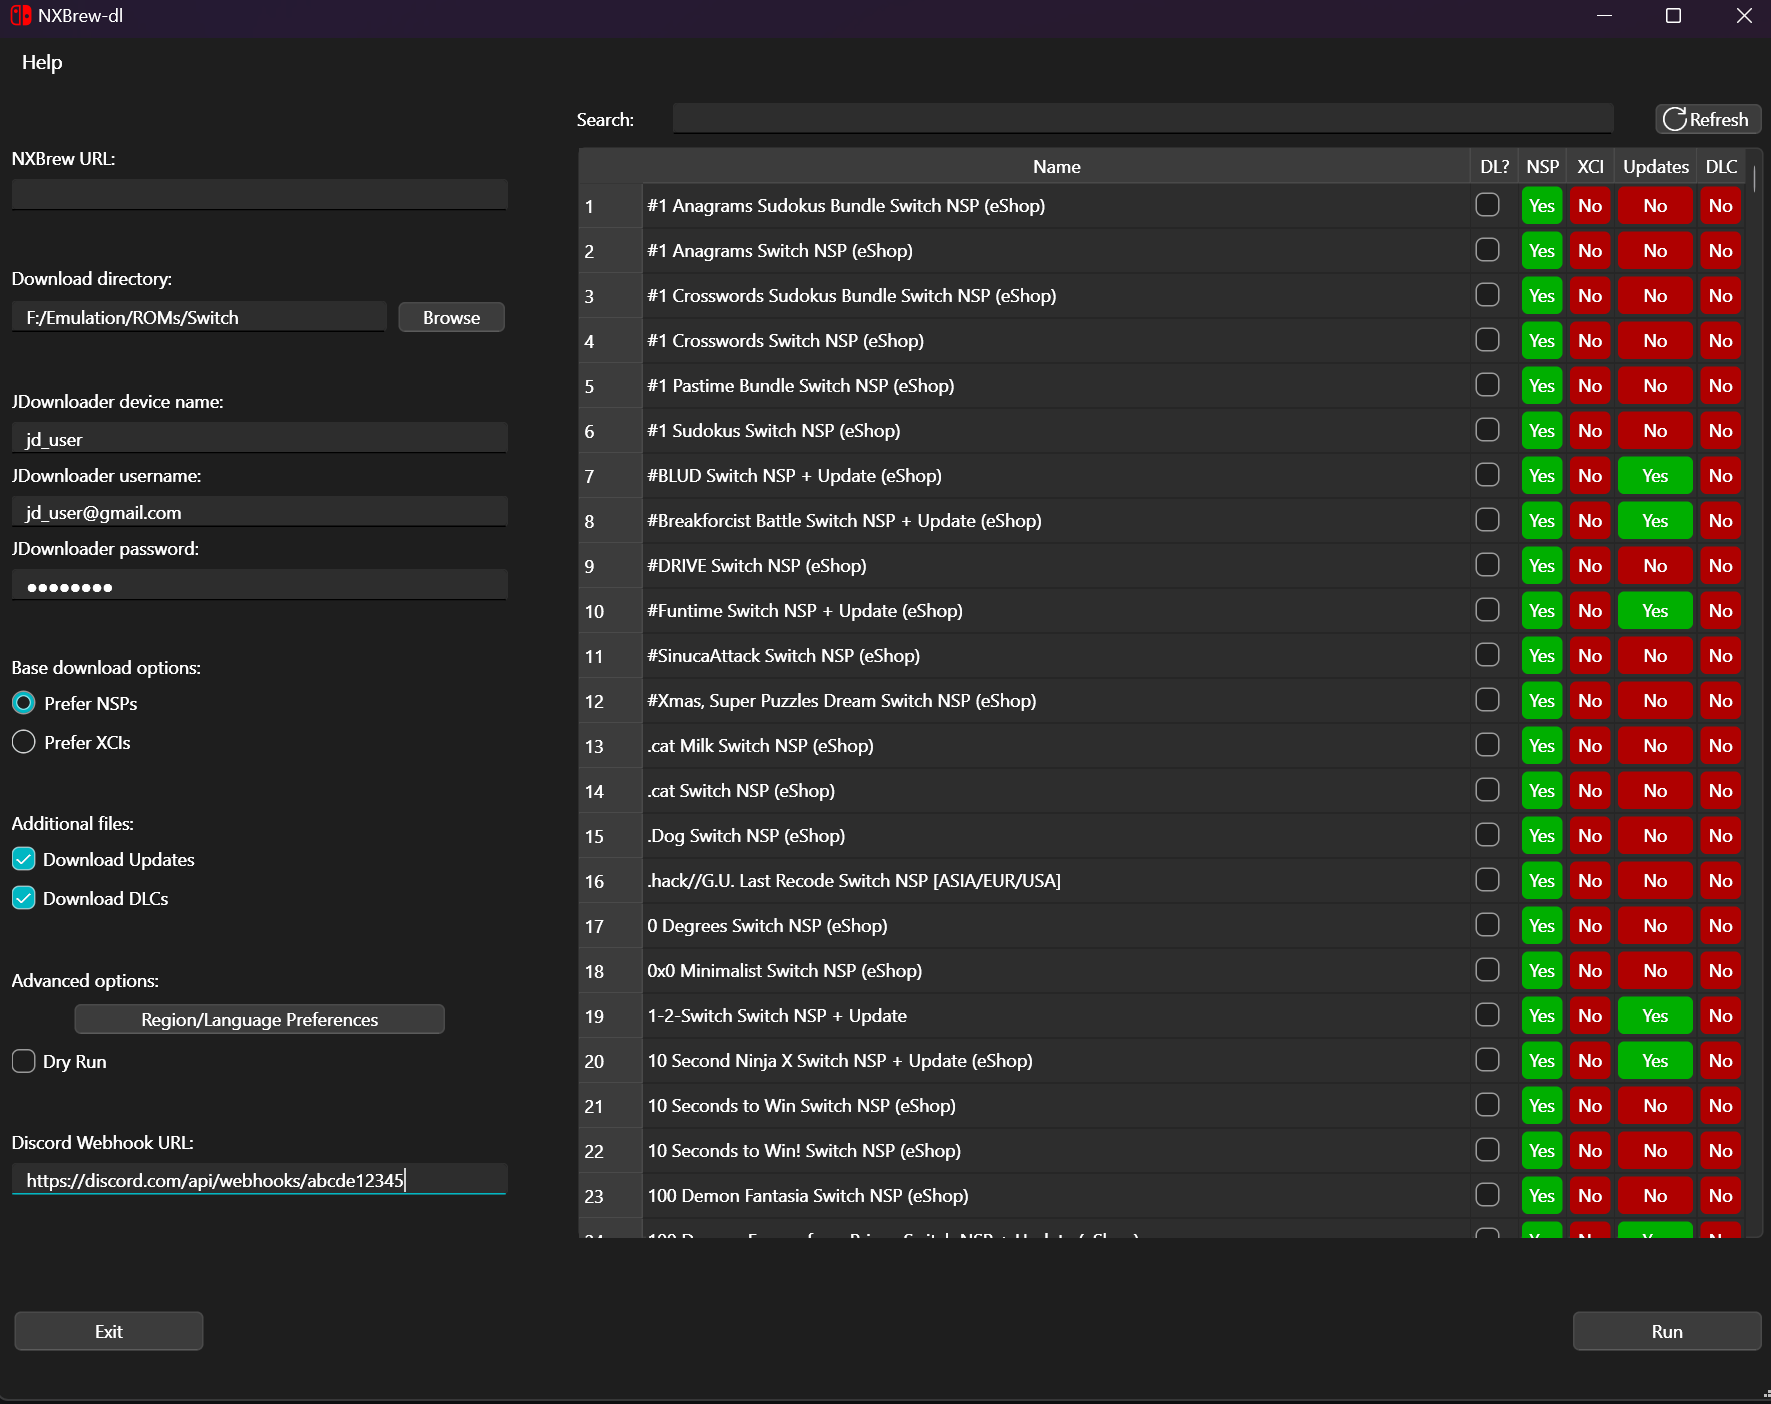
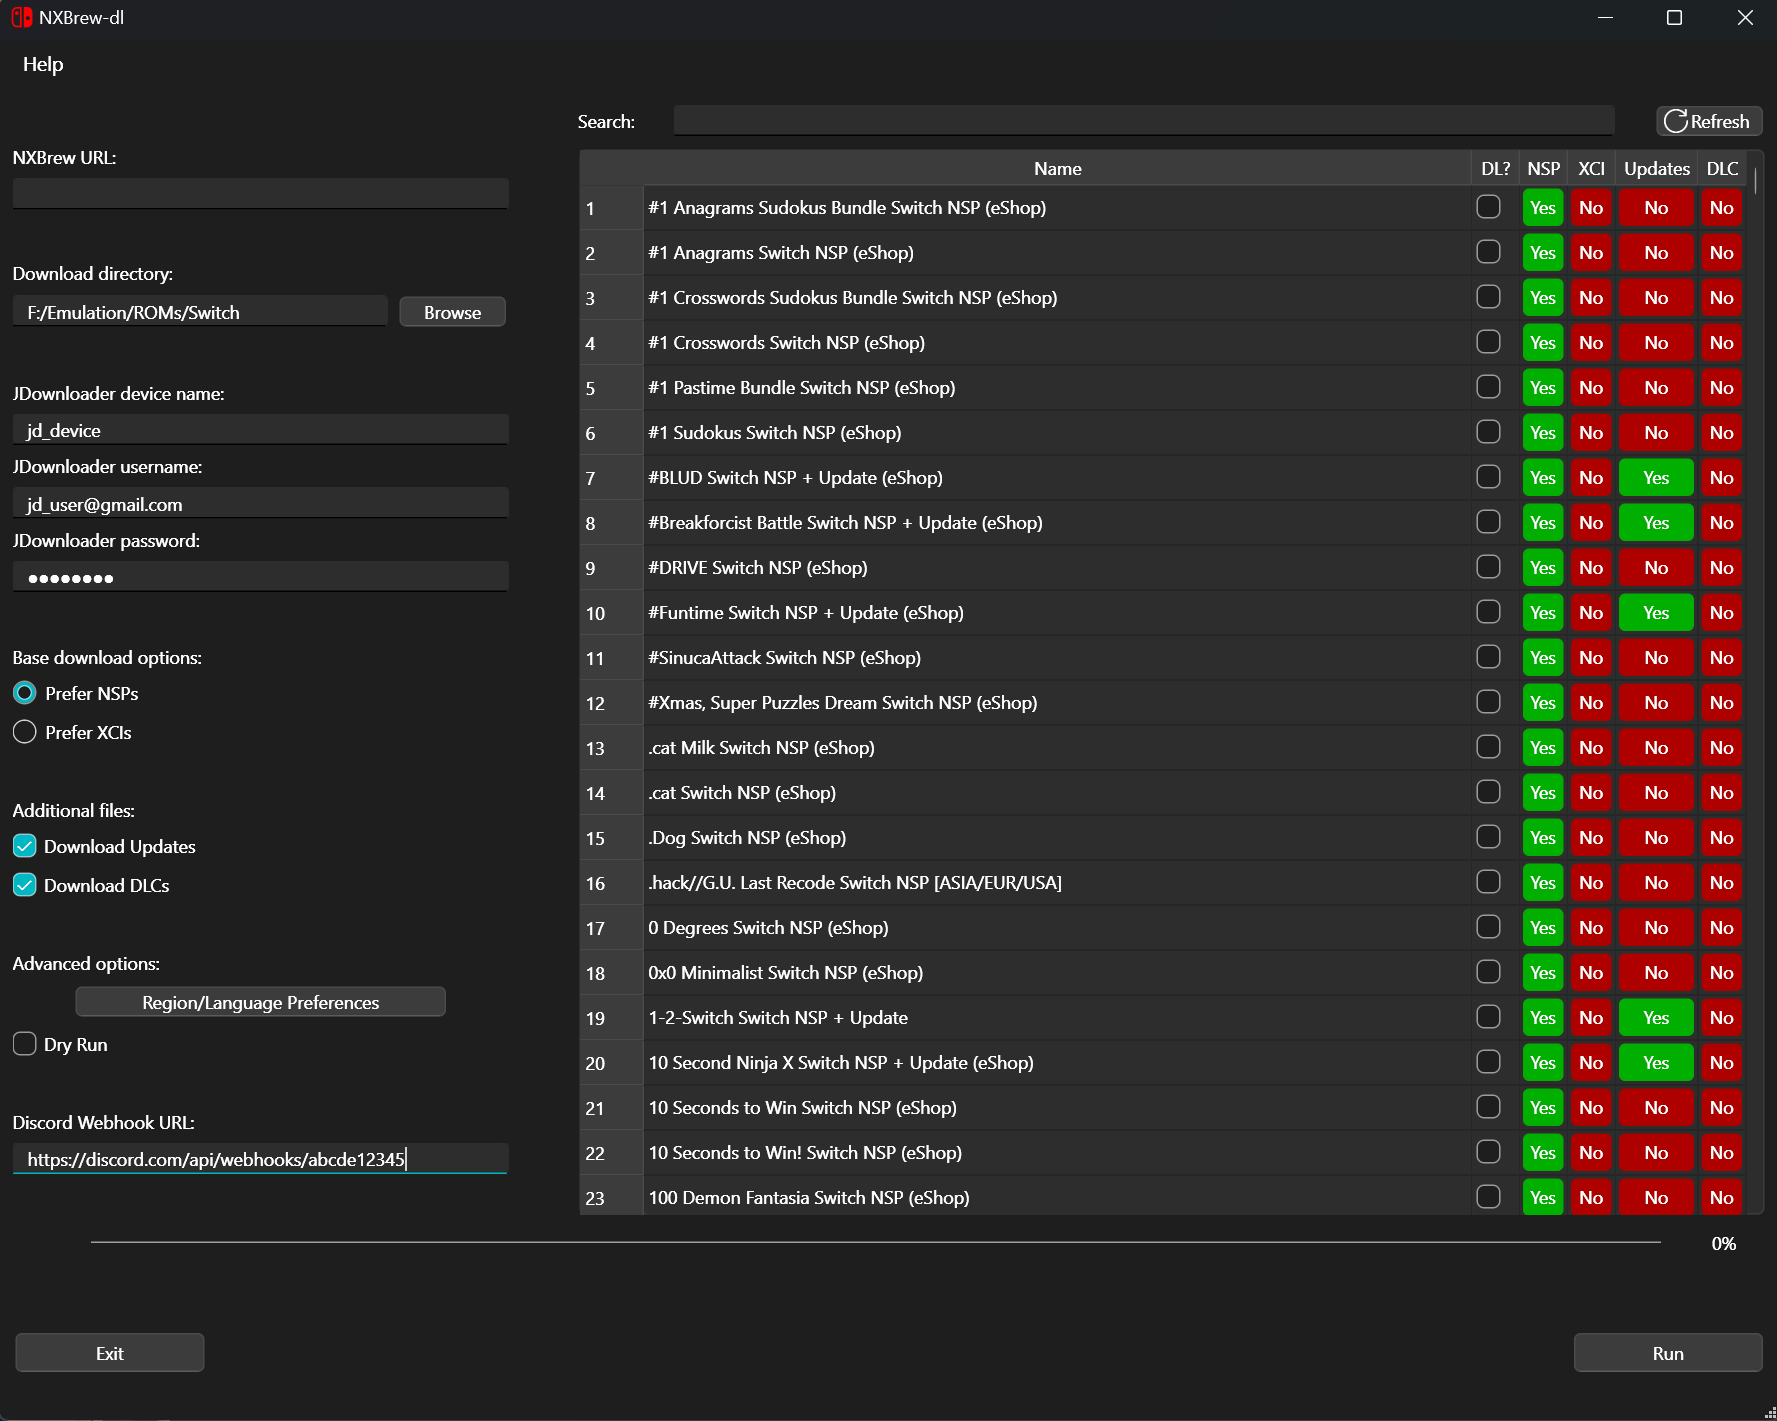
Add progress bar
- Add progress bar to GUI
- Update docs

diff --git a/nxbrew_dl/gui/layout_nxbrew_dl.py b/nxbrew_dl/gui/layout_nxbrew_dl.py
@@ -19,15 +19,15 @@ from PySide6.QtGui import (QAction, QBrush, QColor, QConicalGradient,
 from PySide6.QtWidgets import (QAbstractItemView, QAbstractScrollArea, QApplication, QButtonGroup,
     QCheckBox, QFrame, QHBoxLayout, QHeaderView,
     QLabel, QLineEdit, QMainWindow, QMenu,
-    QMenuBar, QPushButton, QRadioButton, QSizePolicy,
-    QSpacerItem, QStatusBar, QTableWidget, QTableWidgetItem,
-    QVBoxLayout, QWidget)
+    QMenuBar, QProgressBar, QPushButton, QRadioButton,
+    QSizePolicy, QSpacerItem, QStatusBar, QTableWidget,
+    QTableWidgetItem, QVBoxLayout, QWidget)
 
 class Ui_nxbrew_dl(object):
     def setupUi(self, nxbrew_dl):
         if not nxbrew_dl.objectName():
             nxbrew_dl.setObjectName(u"nxbrew_dl")
-        nxbrew_dl.resize(1187, 907)
+        nxbrew_dl.resize(1187, 920)
         self.actionDocumentation = QAction(nxbrew_dl)
         self.actionDocumentation.setObjectName(u"actionDocumentation")
         icon = QIcon(QIcon.fromTheme(QIcon.ThemeIcon.GoHome))
@@ -321,6 +321,37 @@ class Ui_nxbrew_dl(object):
 
         self.verticalLayout.addLayout(self.horizontalLayoutConfigGames)
 
+        self.horizontalLayoutProgressBar = QHBoxLayout()
+        self.horizontalLayoutProgressBar.setObjectName(u"horizontalLayoutProgressBar")
+        self.labelProgressBar = QLabel(self.centralwidget)
+        self.labelProgressBar.setObjectName(u"labelProgressBar")
+        sizePolicy4 = QSizePolicy(QSizePolicy.Policy.Maximum, QSizePolicy.Policy.Preferred)
+        sizePolicy4.setHorizontalStretch(0)
+        sizePolicy4.setVerticalStretch(0)
+        sizePolicy4.setHeightForWidth(self.labelProgressBar.sizePolicy().hasHeightForWidth())
+        self.labelProgressBar.setSizePolicy(sizePolicy4)
+
+        self.horizontalLayoutProgressBar.addWidget(self.labelProgressBar)
+
+        self.horizontalSpacer_5 = QSpacerItem(40, 20, QSizePolicy.Policy.Maximum, QSizePolicy.Policy.Minimum)
+
+        self.horizontalLayoutProgressBar.addItem(self.horizontalSpacer_5)
+
+        self.progressBar = QProgressBar(self.centralwidget)
+        self.progressBar.setObjectName(u"progressBar")
+        sizePolicy5 = QSizePolicy(QSizePolicy.Policy.Minimum, QSizePolicy.Policy.Fixed)
+        sizePolicy5.setHorizontalStretch(0)
+        sizePolicy5.setVerticalStretch(0)
+        sizePolicy5.setHeightForWidth(self.progressBar.sizePolicy().hasHeightForWidth())
+        self.progressBar.setSizePolicy(sizePolicy5)
+        self.progressBar.setMinimumSize(QSize(500, 0))
+        self.progressBar.setValue(0)
+
+        self.horizontalLayoutProgressBar.addWidget(self.progressBar)
+
+
+        self.verticalLayout.addLayout(self.horizontalLayoutProgressBar)
+
         self.verticalSpacerConfigButtons = QSpacerItem(20, 40, QSizePolicy.Policy.Minimum, QSizePolicy.Policy.Minimum)
 
         self.verticalLayout.addItem(self.verticalSpacerConfigButtons)
@@ -469,6 +500,8 @@ class Ui_nxbrew_dl(object):
 #if QT_CONFIG(tooltip)
         ___qtablewidgetitem5.setToolTip(QCoreApplication.translate("nxbrew_dl", u"Game has DLC", None));
 #endif // QT_CONFIG(tooltip)
+        self.labelProgressBar.setText("")
+        self.progressBar.setFormat(QCoreApplication.translate("nxbrew_dl", u"%p%", None))
 #if QT_CONFIG(statustip)
         self.pushButtonExit.setStatusTip(QCoreApplication.translate("nxbrew_dl", u"Exit NXBrew-dl", None))
 #endif // QT_CONFIG(statustip)

diff --git a/nxbrew_dl/nxbrew_dl/nxbrew.py b/nxbrew_dl/nxbrew_dl/nxbrew.py
@@ -71,6 +71,8 @@ class NXBrew:
     def __init__(
         self,
         to_download,
+        progress_bar=None,
+        progress_bar_label=None,
         general_config=None,
         regex_config=None,
         user_config=None,
@@ -85,6 +87,12 @@ class NXBrew:
 
         Args:
             to_download (dict): Dictionary of files to download
+            progress_bar (QProgressBar, optional): Progress bar widget.
+                Defaults to None, which will do nothing fancy with the
+                progress bar
+            progress_bar_label (QLabel, optional): If set, will put
+                the game title in a progress bar label. Defaults to
+                None
             general_config (dict): Dictionary for default configuration
             regex_config (dict): Dictionary for regex configuration
             user_config (dict): Dictionary for user configuration
@@ -157,20 +165,35 @@ class NXBrew:
         self.discord_url = discord_url
 
         self.to_download = to_download
+        self.progress_bar = progress_bar
+        self.progress_bar_label = progress_bar_label
 
         self.dry_run = self.user_config.get("dry_run", False)
 
     def run(self):
         """Run NXBrew-dl"""
 
+        n_downloads = len(self.to_download)
+
+        if self.progress_bar is not None:
+            # Reset progress bar to 0
+            self.progress_bar.setValue(0)
+
         self.logger.info("")
         self.logger.info(f"=" * 80)
         self.logger.info(f"{' '*30}STARTING NXBREW-DL{' '*30}")
         self.logger.info(f"=" * 80)
 
-        for name in self.to_download:
+        for i_name, name in enumerate(self.to_download):
+
+            progress_val = 100 * (i_name + 1) / n_downloads
 
             url = self.to_download[name]
+
+            if self.progress_bar is not None:
+                self.progress_bar_label.setText(
+                    f"{i_name + 1}/{n_downloads}: {name}"
+                )
 
             self.logger.info("")
             self.logger.info(f"=" * 80)
@@ -182,6 +205,10 @@ class NXBrew:
             )
             self.logger.info(f"=" * 80)
             self.logger.info("")
+
+            if self.progress_bar is not None:
+                # Reset progress bar to 0
+                self.progress_bar.setValue(progress_val)
 
         # Clean up
         self.logger.info("Performing final cache/disk clean up")
@@ -440,7 +467,9 @@ class NXBrew:
                         f"\t{DL_NAME_MAPPING[dl_key]}: {dl_info['full_name']} already downloaded. Will skip"
                     )
                 else:
-                    self.logger.info(f"\tDownloading {DL_NAME_MAPPING[dl_key]}: {dl_info['full_name']}")
+                    self.logger.info(
+                        f"\tDownloading {DL_NAME_MAPPING[dl_key]}: {dl_info['full_name']}"
+                    )
                     out_dir = os.path.join(self.user_config["download_dir"], dl_dir)
 
                     # Sanitize the package name so we're safe here

diff --git a/nxbrew_dl/gui/gui_nxbrew_dl.py b/nxbrew_dl/gui/gui_nxbrew_dl.py
@@ -415,6 +415,8 @@ class MainWindow(QMainWindow):
         self.nxbrew_thread = QThread()
         self.nxbrew_worker = NXBrewWorker(
             to_download=to_download,
+            progress_bar=self.ui.progressBar,
+            progress_bar_label=self.ui.labelProgressBar,
             user_config=self.user_config,
             user_cache=self.user_cache,
             logger=self.logger,
@@ -503,6 +505,8 @@ class NXBrewWorker(QObject):
     def __init__(
         self,
         to_download,
+        progress_bar=None,
+        progress_bar_label=None,
         general_config=None,
         regex_config=None,
         user_config=None,
@@ -513,6 +517,12 @@ class NXBrewWorker(QObject):
 
         Args:
             to_download (dict): Dictionary of ROMs to download
+            progress_bar (QProgressBar, optional): Progress bar widget.
+                Defaults to None, which will do nothing fancy with the
+                progress bar
+            progress_bar_label (QLabel, optional): If set, will put
+                the game title in a progress bar label. Defaults to
+                None
             general_config (dict): Dictionary of general configuration.
                 Defaults to None, which will load in from expected path
             regex_config (dict): Dictionary of regex configuration.
@@ -527,6 +537,8 @@ class NXBrewWorker(QObject):
         super().__init__()
 
         self.to_download = to_download
+        self.progress_bar = progress_bar
+        self.progress_bar_label = progress_bar_label
         self.general_config = general_config
         self.regex_config = regex_config
         self.user_config = user_config
@@ -538,6 +550,8 @@ class NXBrewWorker(QObject):
 
         nx = NXBrew(
             to_download=self.to_download,
+            progress_bar=self.progress_bar,
+            progress_bar_label=self.progress_bar_label,
             general_config=self.general_config,
             regex_config=self.regex_config,
             user_config=self.user_config,
@@ -548,6 +562,7 @@ class NXBrewWorker(QObject):
         try:
             nx.run()
         except Exception as e:
+            self.logger.warning("Ran into error! Message is:")
             self.logger.warning(e.args[0])
 
         self.finished.emit()

diff --git a/CHANGES.rst b/CHANGES.rst
@@ -1,6 +1,7 @@
 0.4 (Unreleased)
 ================
 
+- Add progress bar to GUI [#19]
 - Keep games list searchable even when downloads are running [#18]
 - If error occurs, don't crash GUI [#17]
 - Exclude log folder so pip builds successfully [#16]
